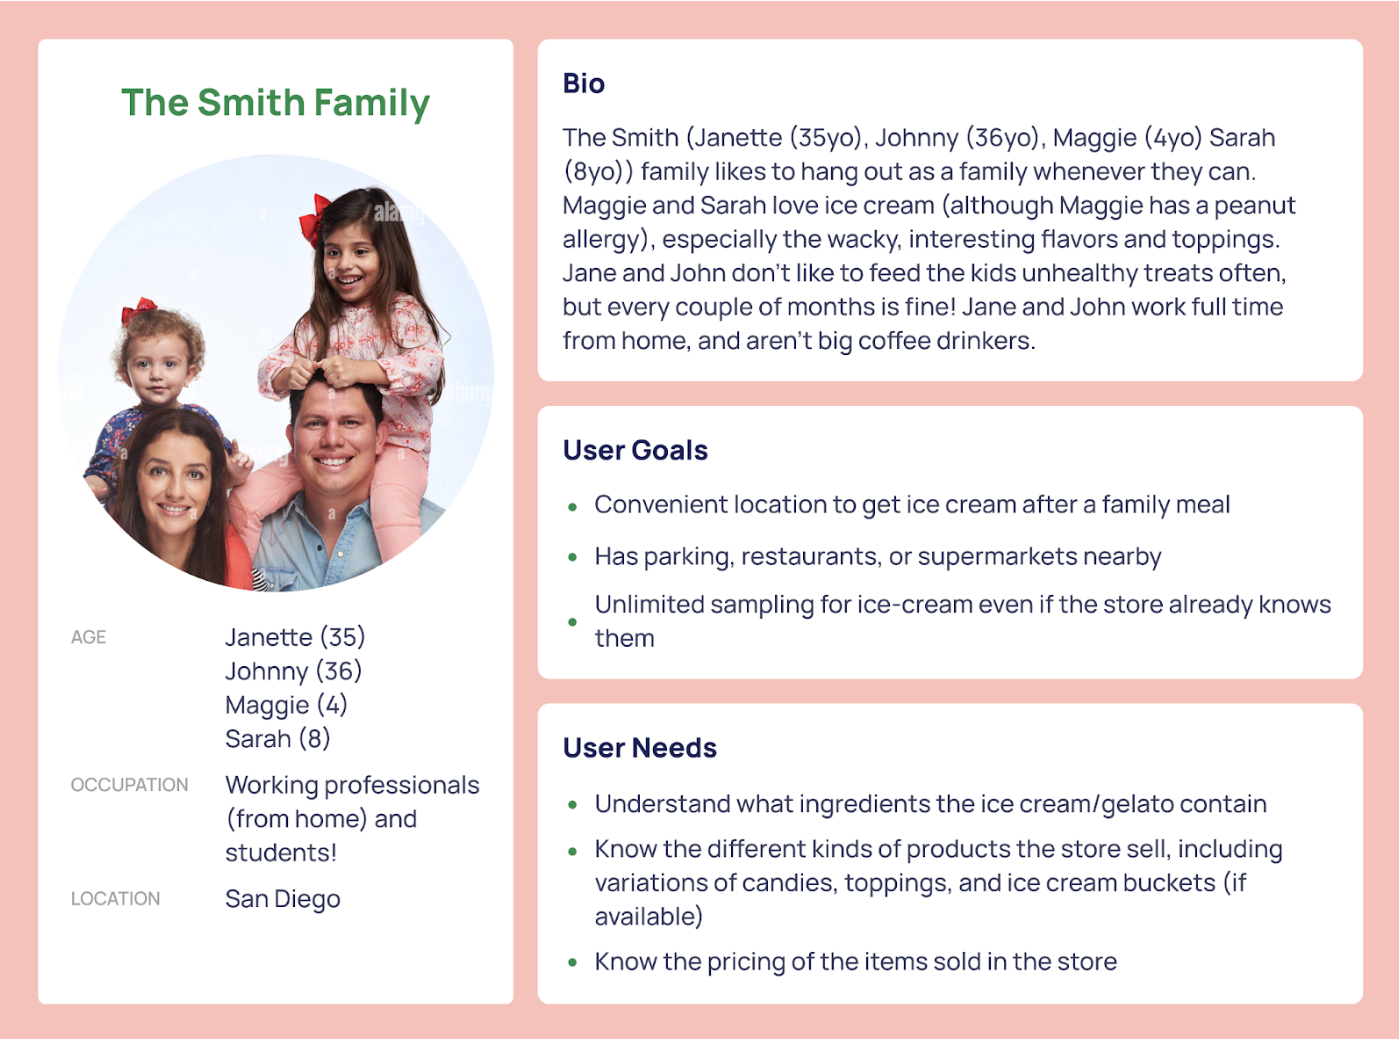
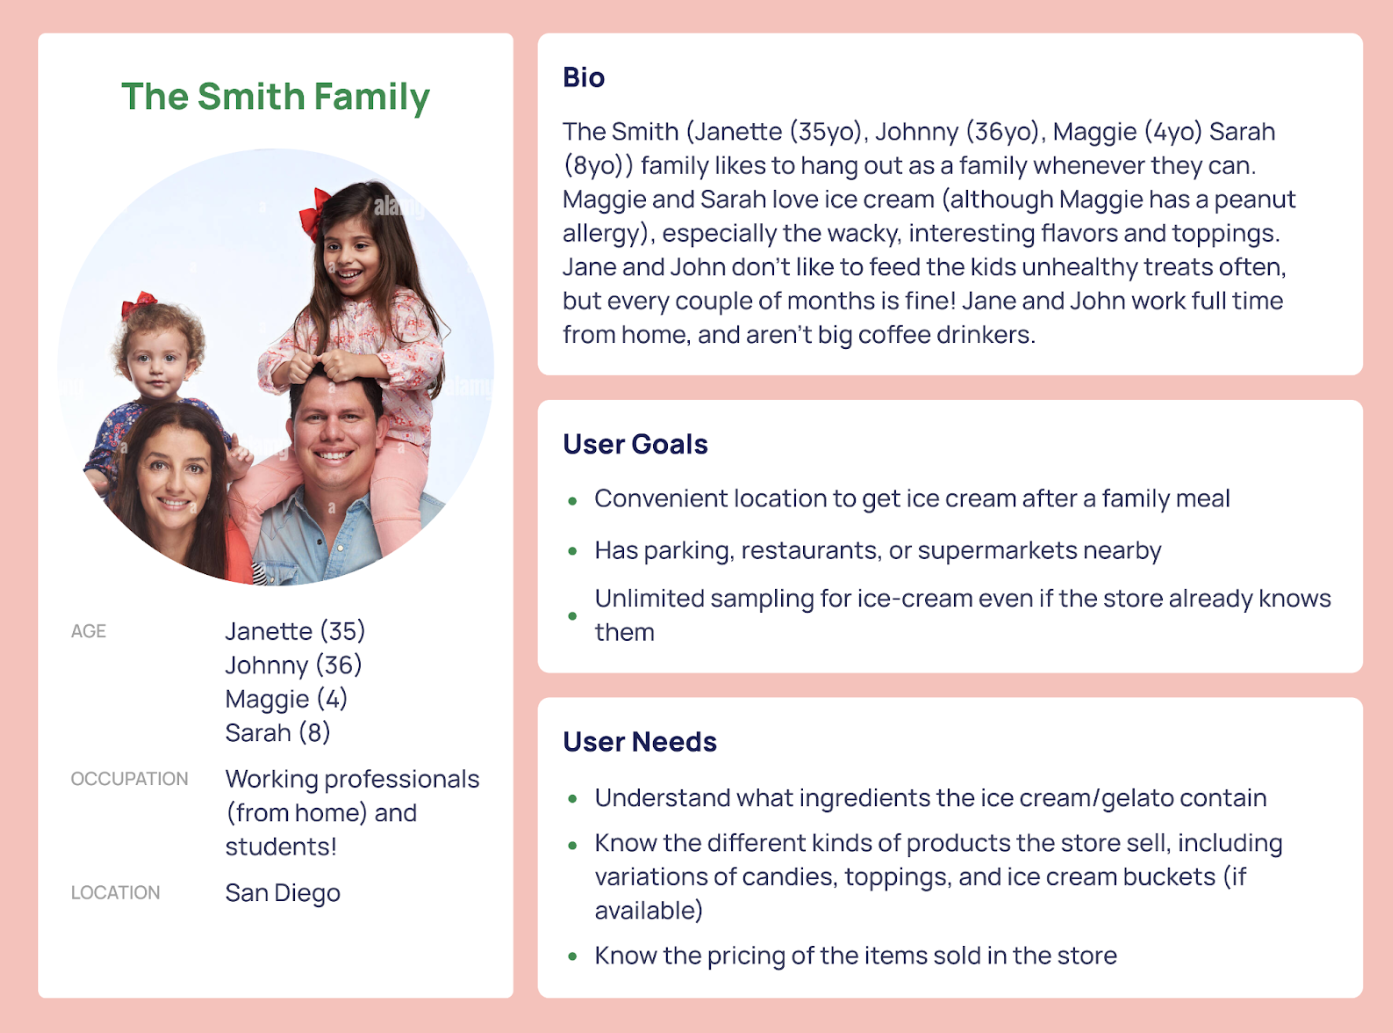
added persona for hanna's and cropped family persona

diff --git a/src/components/Hannas.js b/src/components/Hannas.js
@@ -1,11 +1,17 @@
 import React from 'react';
 import HannasCreamery from '../img/HannasCreameryPreview.png';
+import CateringPersona from '../img/HannasCreamery/CateringPersona.png';
+import FamilyPersona from '../img/HannasCreamery/FamilyPersona.png';
+import StudentPersona from '../img/HannasCreamery/StudentPersona.png';
+import MoodboardA from '../img/HannasCreamery/MoodboardA.png';
+import MoodboardB from '../img/HannasCreamery/MoodboardB.png';
+import Sitemap from '../img/HannasCreamery/Sitemap.png';
 
 
 function Hannas() {
     return (
         <div className="caseStudy">
-            <div className="caseStudy-hero">
+            <div className="img-100">
                 <img src={HannasCreamery} alt="Hanna's Creamery Project"/>
             </div>
             <section>
@@ -14,8 +20,16 @@ function Hannas() {
                 <h2>Problem</h2>
                 <h2>Meeting Ali</h2>
                 <h2>Anyone heard of Hanna's Creamery?</h2>
+                <div className='persona img-100'>
+                    <img src={StudentPersona} alt="Student persona"/>
+                    <img src={FamilyPersona} alt="Family persona"/>
+                    <img src={CateringPersona} alt="Catering persona"/>
+                </div>
                 <h2>What is the current state?</h2>
                 <h2>User Flows</h2>
+                <div className='img-100'>
+                    <img src={Sitemap} alt="Sitemap"/>
+                </div>
                 <h2>Low-Fidelity Prototype</h2>
                 <h2>User Testing & Challenges</h2>
                 <h2>Hi-Fidelity Prototype</h2>

diff --git a/src/css/Project.css b/src/css/Project.css
@@ -49,12 +49,21 @@
     margin-top: 2rem;
 }
 
-.caseStudy-hero {
+.img-100 {
     margin-top: 1rem;
     display: flex;    
 }
 
-.caseStudy-hero img {
+.img-100 img {
     width: 100%;
     height: 100%;
+}
+
+.persona {
+    flex-direction: column;
+    /* flex-wrap: wrap; */
+}
+
+.persona img {
+    width: 50%;
 }
